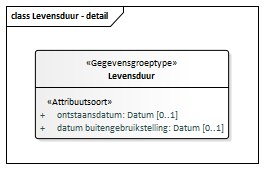
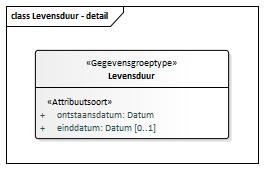
Conceptualmodel-MijnbouwconstructiesEPC-conceptueel-Mijnstelsel-0.1versie27juli2020-1-20200727-20210111-143543

Changed region(s): [[0.2121, 0.6509, 0.8485, 0.7988]]

diff --git a/data/EPC-cat.msword.html b/data/EPC-cat.msword.html
@@ -15,7 +15,7 @@
    <body>
       <p>Conceptual model/Mijnbouwconstructies (EPC) - conceptueel - Mijnstelsel/20200727</p>
       <p>Imvertor: 1.62.2</p>
-      <p>Model release: Conceptualmodel-MijnbouwconstructiesEPC-conceptueel-Mijnstelsel-0.1versie27juli2020-1-20200727-20210108-120652</p>
+      <p>Model release: Conceptualmodel-MijnbouwconstructiesEPC-conceptueel-Mijnstelsel-0.1versie27juli2020-1-20200727-20210111-143543</p>
       <hr>
       <section>
          <h1>Artikel 1 Definitie van registratieobject, entiteiten en attributen</h1>
@@ -74,7 +74,7 @@
          <section>
             <h2>Het domeinmodel</h2>
             <section id="">
-               <div class="imageinfo overview"><img src="Images/EAID_427D0B1B_02C7_47be_BB79_811DC7B03767.png" usemap="#imagemap-EAID_427D0B1B_02C7_47be_BB79_811DC7B03767" alt="Diagram &#xA;"><map name="imagemap-EAID_427D0B1B_02C7_47be_BB79_811DC7B03767"><area shape="rect" alt="Mijnbouwconstructie" coords="328,50,604,288" href="#graph_EAID_13895725_BEC6_4db9_94FA_45FD9EFF5B7A"><area shape="rect" alt="Mijnkaart" coords="921,315,1080,485" href="#graph_EAID_21D86031_1848_4114_BE7A_C7D59D904F70"><area shape="rect" alt="Ontginningszone" coords="616,527,896,698" href="#graph_EAID_D08FEA8B_2C37_4a07_8BA2_ACB20859D0D3"><area shape="rect" alt="Transportzone" coords="326,527,606,685" href="#graph_EAID_CFE642E9_B1B4_4565_826F_62987F16BE0C"><area shape="rect" alt="Toegang" coords="35,527,315,698" href="#graph_EAID_6E2D01B2_4E2A_4325_8E9B_4B6ABF5130B1"><area shape="rect" alt="Mijnstelsel" coords="326,315,606,473" href="#graph_EAID_775FFB45_C373_487e_9450_6549EE37260B"></map><p><b>Mijnbouwconstructies (EPC)</b></p>
+               <div class="imageinfo overview"><img src="Images/EAID_427D0B1B_02C7_47be_BB79_811DC7B03767.png" usemap="#imagemap-EAID_427D0B1B_02C7_47be_BB79_811DC7B03767" alt="Diagram &#xA;"><map name="imagemap-EAID_427D0B1B_02C7_47be_BB79_811DC7B03767"><area shape="rect" alt="Mijnbouwconstructie" coords="328,50,604,288" href="#graph_EAID_13895725_BEC6_4db9_94FA_45FD9EFF5B7A"><area shape="rect" alt="Mijnkaart" coords="921,315,1080,495" href="#graph_EAID_21D86031_1848_4114_BE7A_C7D59D904F70"><area shape="rect" alt="Ontginningszone" coords="616,527,896,698" href="#graph_EAID_D08FEA8B_2C37_4a07_8BA2_ACB20859D0D3"><area shape="rect" alt="Transportzone" coords="326,527,606,685" href="#graph_EAID_CFE642E9_B1B4_4565_826F_62987F16BE0C"><area shape="rect" alt="Toegang" coords="35,527,315,698" href="#graph_EAID_6E2D01B2_4E2A_4325_8E9B_4B6ABF5130B1"><area shape="rect" alt="Mijnstelsel" coords="326,315,606,473" href="#graph_EAID_775FFB45_C373_487e_9450_6549EE37260B"></map><p><b>Mijnbouwconstructies (EPC)</b></p>
                </div>
             </section>
          </section>
@@ -82,7 +82,7 @@
             <h2>Entiteiten en attributen</h2>
             <section id=""><a class="anchor" id="graph_EAID_13895725_BEC6_4db9_94FA_45FD9EFF5B7A"></a><a class="anchor" id="global_class_Model_Mijnbouwconstructie"></a><section id="global_class_Model_Mijnbouwconstructie">
                   <h3>   Mijnbouwconstructie</h3>
-                  <div class="imageinfo "><img src="Images/EAID_827D184C_95CC_4560_87CA_74934DA5F072.png" usemap="#imagemap-EAID_827D184C_95CC_4560_87CA_74934DA5F072" alt="Diagram "><map name="imagemap-EAID_827D184C_95CC_4560_87CA_74934DA5F072"><area shape="rect" alt="Gebeurtenis" coords="363,411,599,500" href="#graph_EAID_8E09DB9F_A879_4150_8253_79F739C0C994"><area shape="rect" alt="Levensduur" coords="363,293,599,382" href="#graph_EAID_79A8C235_1C7C_48af_BC9C_9EEDC89B6FBA"><area shape="rect" alt="Registratiegeschiedenis" coords="361,50,601,269" href="#graph_EAID_411F7B9D_4539_4d93_B3C0_785ECA2FBEE7"><area shape="rect" alt="Mijnbouwconstructie" coords="35,50,311,292" href="#graph_EAID_13895725_BEC6_4db9_94FA_45FD9EFF5B7A"><area shape="rect" alt="Mijnstelsel" coords="72,333,275,382" href="#graph_EAID_775FFB45_C373_487e_9450_6549EE37260B"></map><p><b></b></p>
+                  <div class="imageinfo "><img src="Images/EAID_827D184C_95CC_4560_87CA_74934DA5F072.png" usemap="#imagemap-EAID_827D184C_95CC_4560_87CA_74934DA5F072" alt="Diagram "><map name="imagemap-EAID_827D184C_95CC_4560_87CA_74934DA5F072"><area shape="rect" alt="Gebeurtenis" coords="363,411,599,500" href="#graph_EAID_8E09DB9F_A879_4150_8253_79F739C0C994"><area shape="rect" alt="Levensduur" coords="363,299,599,388" href="#graph_EAID_79A8C235_1C7C_48af_BC9C_9EEDC89B6FBA"><area shape="rect" alt="Registratiegeschiedenis" coords="361,50,601,269" href="#graph_EAID_411F7B9D_4539_4d93_B3C0_785ECA2FBEE7"><area shape="rect" alt="Mijnbouwconstructie" coords="35,50,311,292" href="#graph_EAID_13895725_BEC6_4db9_94FA_45FD9EFF5B7A"><area shape="rect" alt="Mijnstelsel" coords="72,333,275,382" href="#graph_EAID_775FFB45_C373_487e_9450_6549EE37260B"></map><p><b></b></p>
                   </div>
                   <table style="width: 100%;">
                      <colgroup style="width: 30%;"></colgroup>
@@ -1404,7 +1404,7 @@
                            </tr>
                            <tr>
                               <th>Kardinaliteit</th>
-                              <td>0..1</td>
+                              <td>1</td>
                            </tr>
                            <tr>
                               <th>Domein</th>
@@ -1453,8 +1453,8 @@
                            </tr>
                         </tbody>
                      </table>
-                     </section><a class="anchor" id="detail_attribute_Model_Levensduur_datumbuitengebruikstelling"></a><section id="detail_attribute_Model_Levensduur_datumbuitengebruikstelling">
-                     <h4>  datum buitengebruikstelling</h4>
+                     </section><a class="anchor" id="detail_attribute_Model_Levensduur_einddatum"></a><section id="detail_attribute_Model_Levensduur_einddatum">
+                     <h4>  einddatum</h4>
                      
                      <table style="width: 100%;">
                         <colgroup style="width: 30%;"></colgroup>
@@ -1468,20 +1468,7 @@
                               <th>Definitie</th>
                               <td>
                                  
-                                 <p>De datum waarop de gehele mijnbouwconstructie wettelijk gezien buiten gebruik is gesteld.</p>
-                                 
-                                 <blockquote>
-                                    
-                                    <blockquote>
-                                       
-                                       <blockquote>
-                                          
-                                          <p>HIERONDER DE UITBREIDING VOOR MIJNSTELSEL
-                                             (OPEN PUNT: Te bespreken: datum buitengebruikstelling is niet hetzelfde als einde
-                                             levensduur. Afwachten overleg met analisten op 11-01-2020.</p>
-                                          </blockquote>
-                                       </blockquote>
-                                    </blockquote>
+                                 <p>De datum waarop de gehele mijnbouwconstructie eindigt te bestaan..</p>
                                  </td>
                            </tr>
                            <tr>
@@ -2023,7 +2010,7 @@
                            </tr>
                         </tbody>
                      </table>
-                     </section><a class="anchor" id="detail_d33646e6561"></a><section id="detail_d33646e6561">
+                     </section><a class="anchor" id="detail_d33646e6544"></a><section id="detail_d33646e6544">
                      <h4>  gegevens locatiebepaling</h4>
                      
                      
@@ -2843,7 +2830,7 @@
                            </tr>
                         </tbody>
                      </table>
-                     </section><a class="anchor" id="detail_d33646e9268"></a><section id="detail_d33646e9268">
+                     </section><a class="anchor" id="detail_d33646e9251"></a><section id="detail_d33646e9251">
                      <h4>  gegevens locatiebepaling</h4>
                      
                      
@@ -3161,7 +3148,7 @@
                            </tr>
                         </tbody>
                      </table>
-                     </section><a class="anchor" id="detail_d33646e10405"></a><section id="detail_d33646e10405">
+                     </section><a class="anchor" id="detail_d33646e10388"></a><section id="detail_d33646e10388">
                      <h4>  gegevens locatiebepaling</h4>
                      
                      
@@ -3551,7 +3538,7 @@
                            </tr>
                         </tbody>
                      </table>
-                     </section><a class="anchor" id="detail_d33646e11765"></a><section id="detail_d33646e11765">
+                     </section><a class="anchor" id="detail_d33646e11748"></a><section id="detail_d33646e11748">
                      <h4>  gegevens locatiebepaling</h4>
                      
                      
